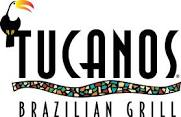
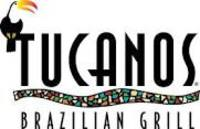
Resize images

diff --git a/app/uploaders/image_uploader.rb b/app/uploaders/image_uploader.rb
@@ -4,7 +4,7 @@ class ImageUploader < CarrierWave::Uploader::Base
 
   # Include RMagick or MiniMagick support:
   # include CarrierWave::RMagick
-  # include CarrierWave::MiniMagick
+  include CarrierWave::MiniMagick
 
   # Choose what kind of storage to use for this uploader:
   # storage :file
@@ -29,7 +29,7 @@ class ImageUploader < CarrierWave::Uploader::Base
   # end
 
   # Process files as they are uploaded:
-  # process :scale => [200, 300]
+  process :resize_to_fit => [200, 300]
   #
   # def scale(width, height)
   #   # do something
